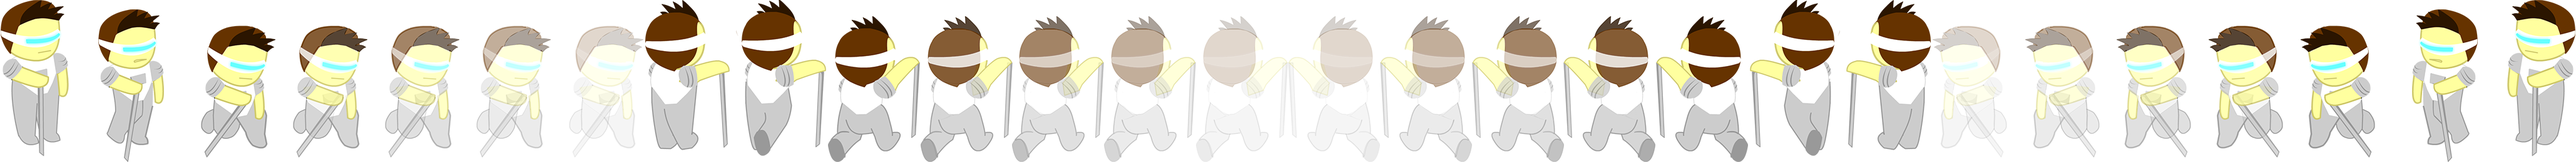
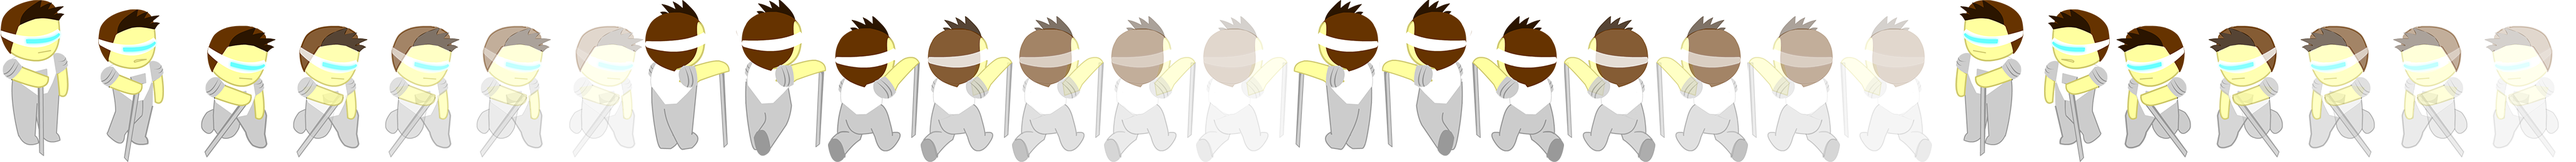
Concertei o erro que dava da transicao entre gaia andando e correndo. add a animacao so guarda morrendo

Changed region(s): [[0.4976, 0.0, 1.0, 0.9846]]

diff --git a/src/Guarda.cpp b/src/Guarda.cpp
@@ -54,7 +54,7 @@ Guarda::Guarda(float x, float y, GuardaEstado estado_inicial, int comodo, std::s
     sp_morrendo.SetFrameTotal(28);
     sp_morrendo.SetFrameStart(1);
     sp_morrendo.SetFrameAnimation(7);
-    sp_morrendo.SetFrameTime(0.2);
+    sp_morrendo.SetFrameTime(0.1);
     sp_morrendo.SetScaleX(1);
     sp_morrendo.SetScaleY(1);
 
@@ -82,7 +82,12 @@ void Guarda::Update(float dt){
         return;
     }
     
-    sp_andando.Update(dt);
+    if(estado_atual == MORRENDO){
+        sp_morrendo.Update(dt);
+    }
+    else{
+        sp_andando.Update(dt);
+    }
     pausa.Update(dt);
 
     tempo_estado.Update(dt);
@@ -281,6 +286,9 @@ void Guarda::Render(){
     if(estado_atual == VIGIANDO_PORTA){
         sp_morrendo.Render(box.x-Camera::pos.x, box.y-Camera::pos.y, rotation);
     }
+    else if(estado_atual == MORRENDO){
+        sp_morrendo.Render(box.x-Camera::pos.x, box.y-Camera::pos.y, rotation);
+    }
     else{
         sp_andando.Render(box.x-Camera::pos.x, box.y-Camera::pos.y, rotation);
     }
@@ -323,6 +331,22 @@ void Guarda::NotifyCollision(GameObject& other){
         som_chicote_hit.Play(0);
         hp--;
 
+        if(hp == 0){
+            estado_atual = MORRENDO;
+            if(movimento_atual == SE){
+                sp_morrendo.SetFrameStart(1);
+            }
+            else if(movimento_atual == NE){
+                sp_morrendo.SetFrameStart(8);
+            }
+            else if(movimento_atual == NO){
+                sp_morrendo.SetFrameStart(15);
+            }
+            else if(movimento_atual == SO){
+                sp_morrendo.SetFrameStart(22);
+            }
+        }
+
         Vec2 direcao, direcao_anterior;
         direcao.x = box.x;
         direcao.y = box.y;
@@ -349,7 +373,30 @@ bool Guarda::Is(std::string type){
 }
 
 bool Guarda::IsDead(){
-    return(hp<0);
+    if(hp<=0){
+        estado_atual = MORRENDO; //redundante
+        if(movimento_atual == SE){
+            if(sp_morrendo.GetFrame()==7){
+                return(true);
+            }
+        }
+        else if(movimento_atual == NE){
+            if(sp_morrendo.GetFrame()==14){
+                return(true);
+            }
+        }
+        else if(movimento_atual == NO){
+            if(sp_morrendo.GetFrame()==21){
+                return(true);
+            }
+        }
+        else if(movimento_atual == SO){
+            if(sp_morrendo.GetFrame()==28){
+                return(true);
+            }
+        }
+    }
+    return(false);
 }
 
 void Guarda::PushMovimento(int mov){

diff --git a/src/Gaia.cpp b/src/Gaia.cpp
@@ -165,9 +165,11 @@ void Gaia::Update(float dt){
         else if (modo_manual) {
             ////ALTERNAR SPRITES 
             if(true){
-                if(sprite_atual == ANDANDO || sprite_atual == CORRENDO){
+                if(sprite_atual == ANDANDO){
                     if(In.IsKeyDown(SDLK_s)){
-                        sprite_atual = CORRENDO;
+                        if(In.IsKeyDown(SDLK_RIGHT)||In.IsKeyDown(SDLK_LEFT)||In.IsKeyDown(SDLK_UP)||In.IsKeyDown(SDLK_DOWN)){
+                            sprite_atual = CORRENDO;
+                        }
                     }
                     else{
                         sprite_atual = ANDANDO;
@@ -178,6 +180,12 @@ void Gaia::Update(float dt){
                     if(data.gaia_poderes > 1 && In.KeyPress(SDLK_f)){
                         sprite_atual = CHICOTE;
                         ataque_chicote = 0;
+                    }
+                }
+
+                if(sprite_atual == CORRENDO){
+                    if(In.KeyRelease(SDLK_s)){
+                        sprite_atual = ANDANDO;
                     }
                 }
 

diff --git a/include/Guarda.hpp b/include/Guarda.hpp
@@ -26,7 +26,7 @@
 
 class Guarda : public GameObject{
     public:
-        enum GuardaEstado{DESCANSANDO_PARADO, DESCANSANDO_ANDANDO, PERSEGUINDO, ATACANDO, PARADO_AUTOMATICO, MOVIMENTO_AUTOMATICO, VIGIANDO_PORTA};
+        enum GuardaEstado{DESCANSANDO_PARADO, DESCANSANDO_ANDANDO, PERSEGUINDO, ATACANDO, PARADO_AUTOMATICO, MOVIMENTO_AUTOMATICO, VIGIANDO_PORTA, MORRENDO};
         Guarda(float x, float y, GuardaEstado estado_inicial, int gaia_comodo, std::string nome);
         virtual ~Guarda();
         void Update(float dt);

diff --git a/src/Sprite.cpp b/src/Sprite.cpp
@@ -196,7 +196,7 @@ void Sprite::SetFrameStart(int novo_frame_start){
     frame_start = novo_frame_start - 1;
     frame_animation = frame_start + duracao_animacao-1;
 
-    SetFrame(frame_start+frame_relativo+1);
+    SetFrame(novo_frame_start);
     timer.Restart();
 }
 
